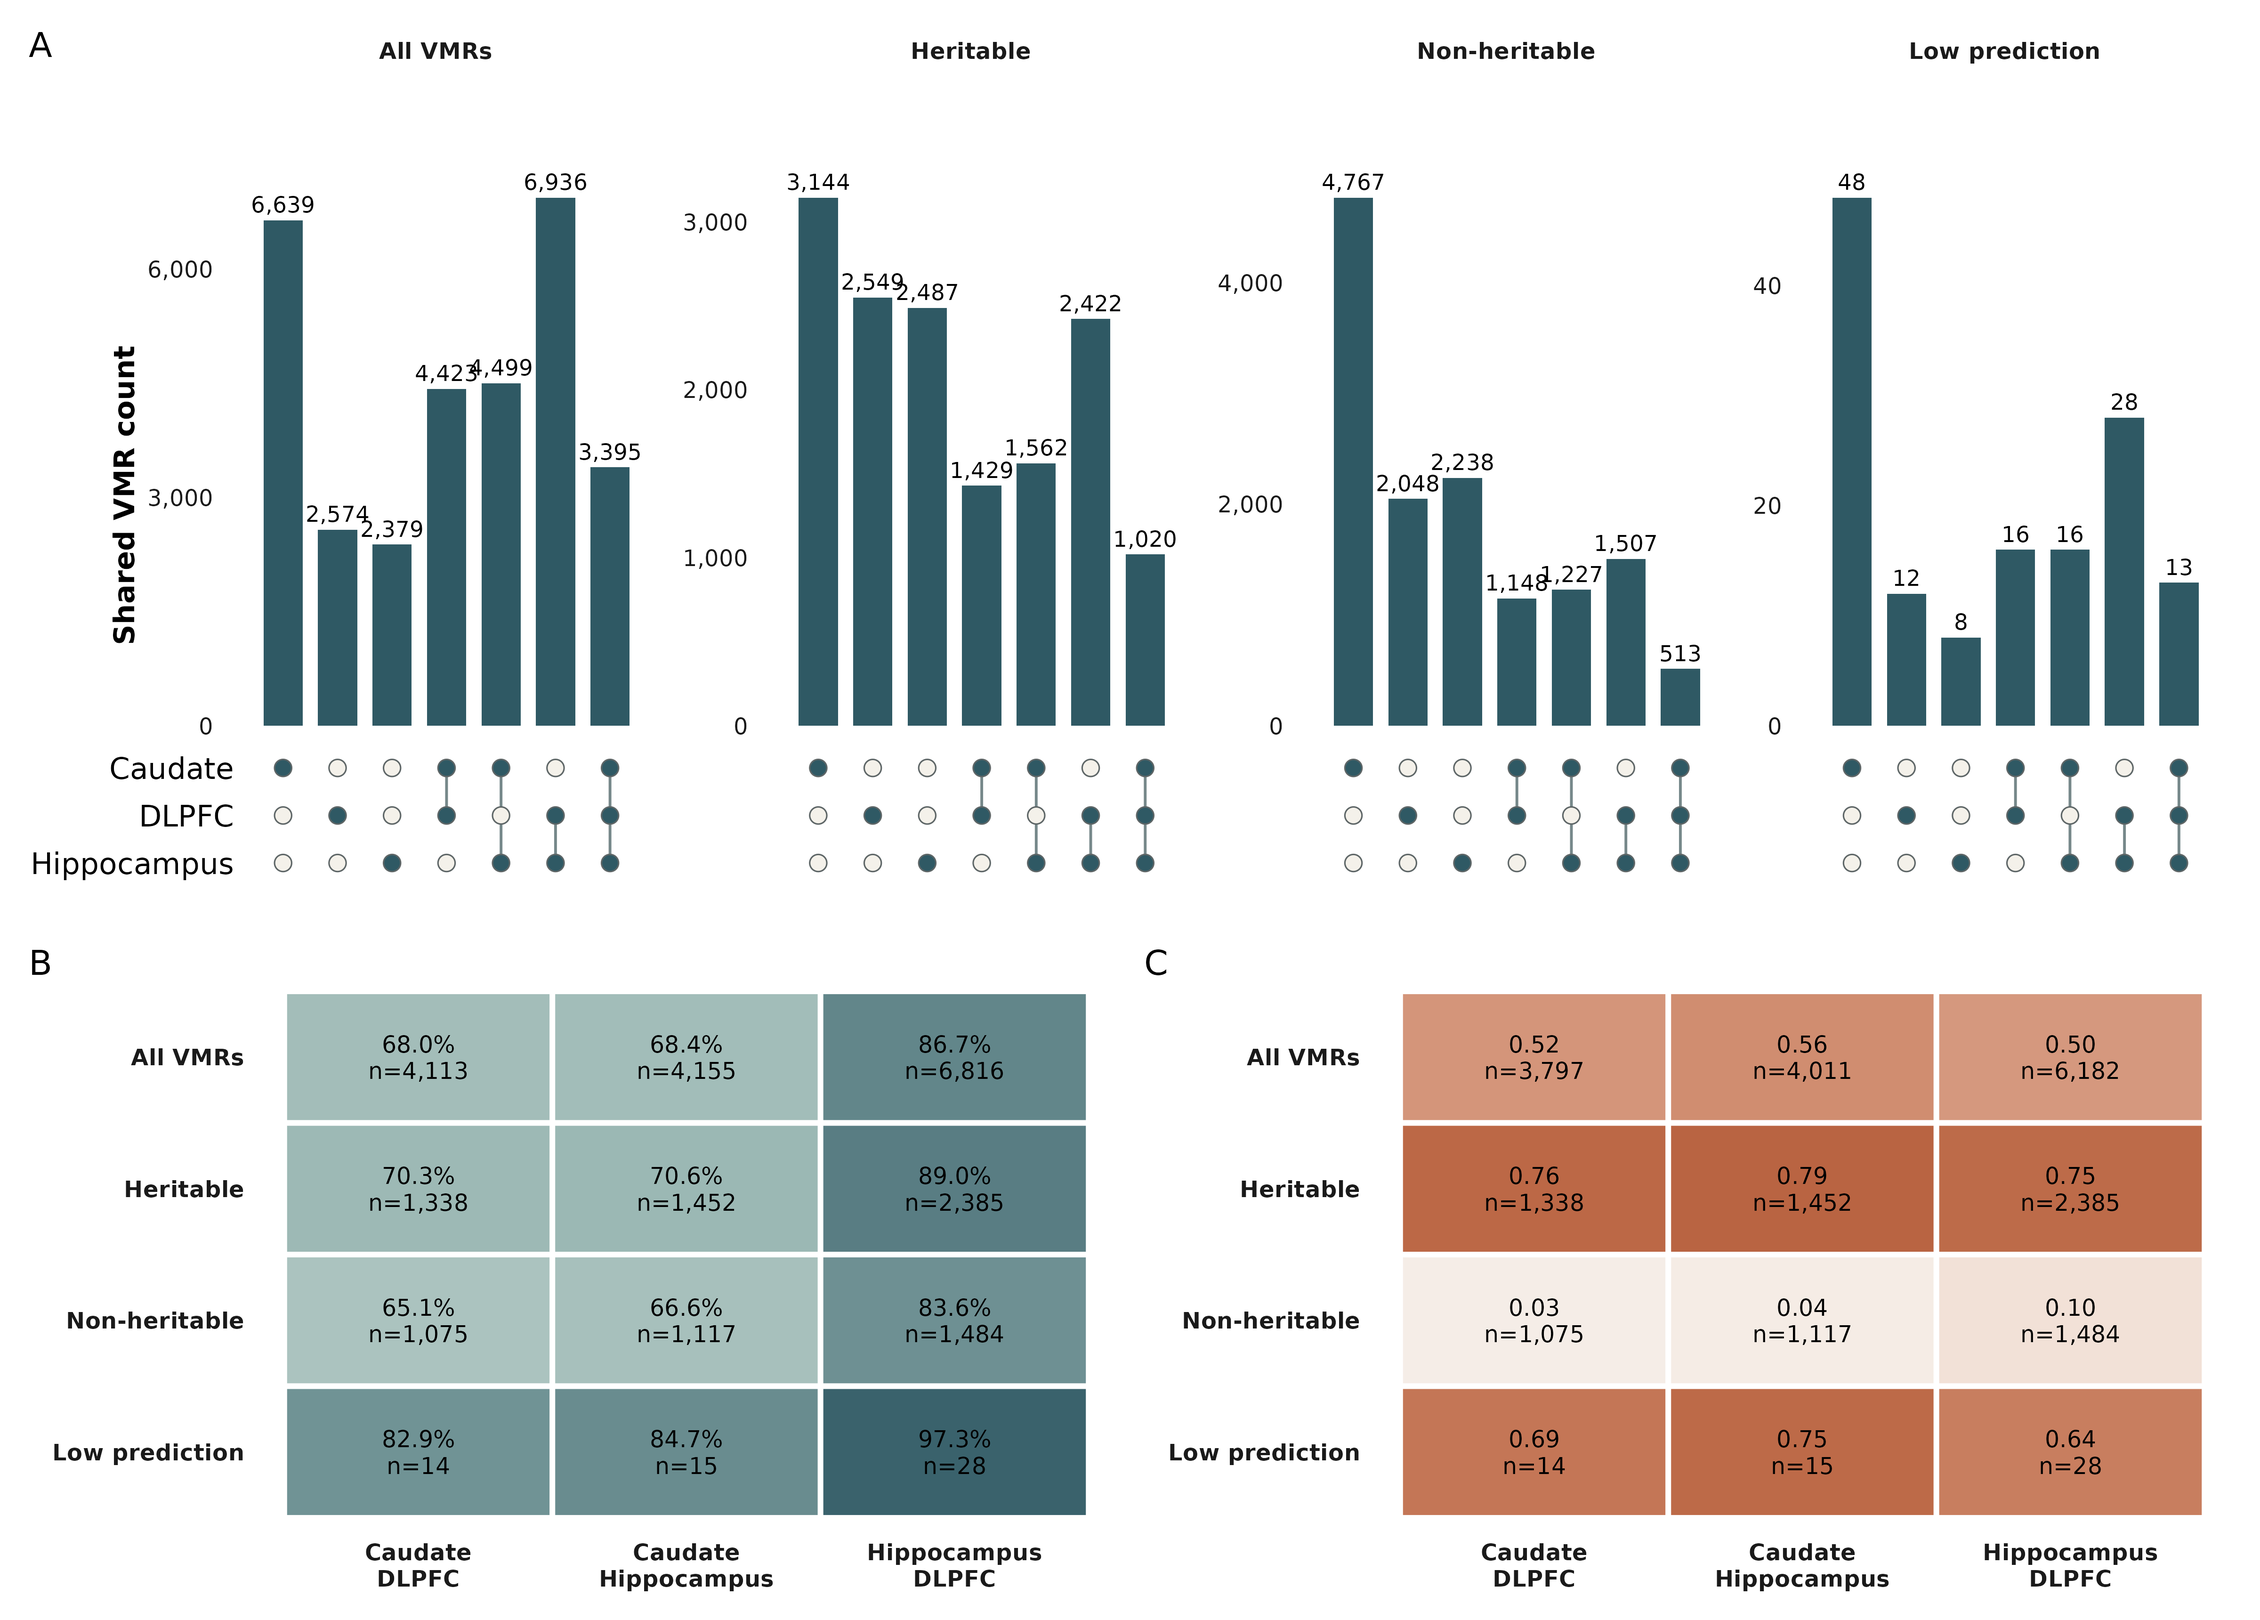
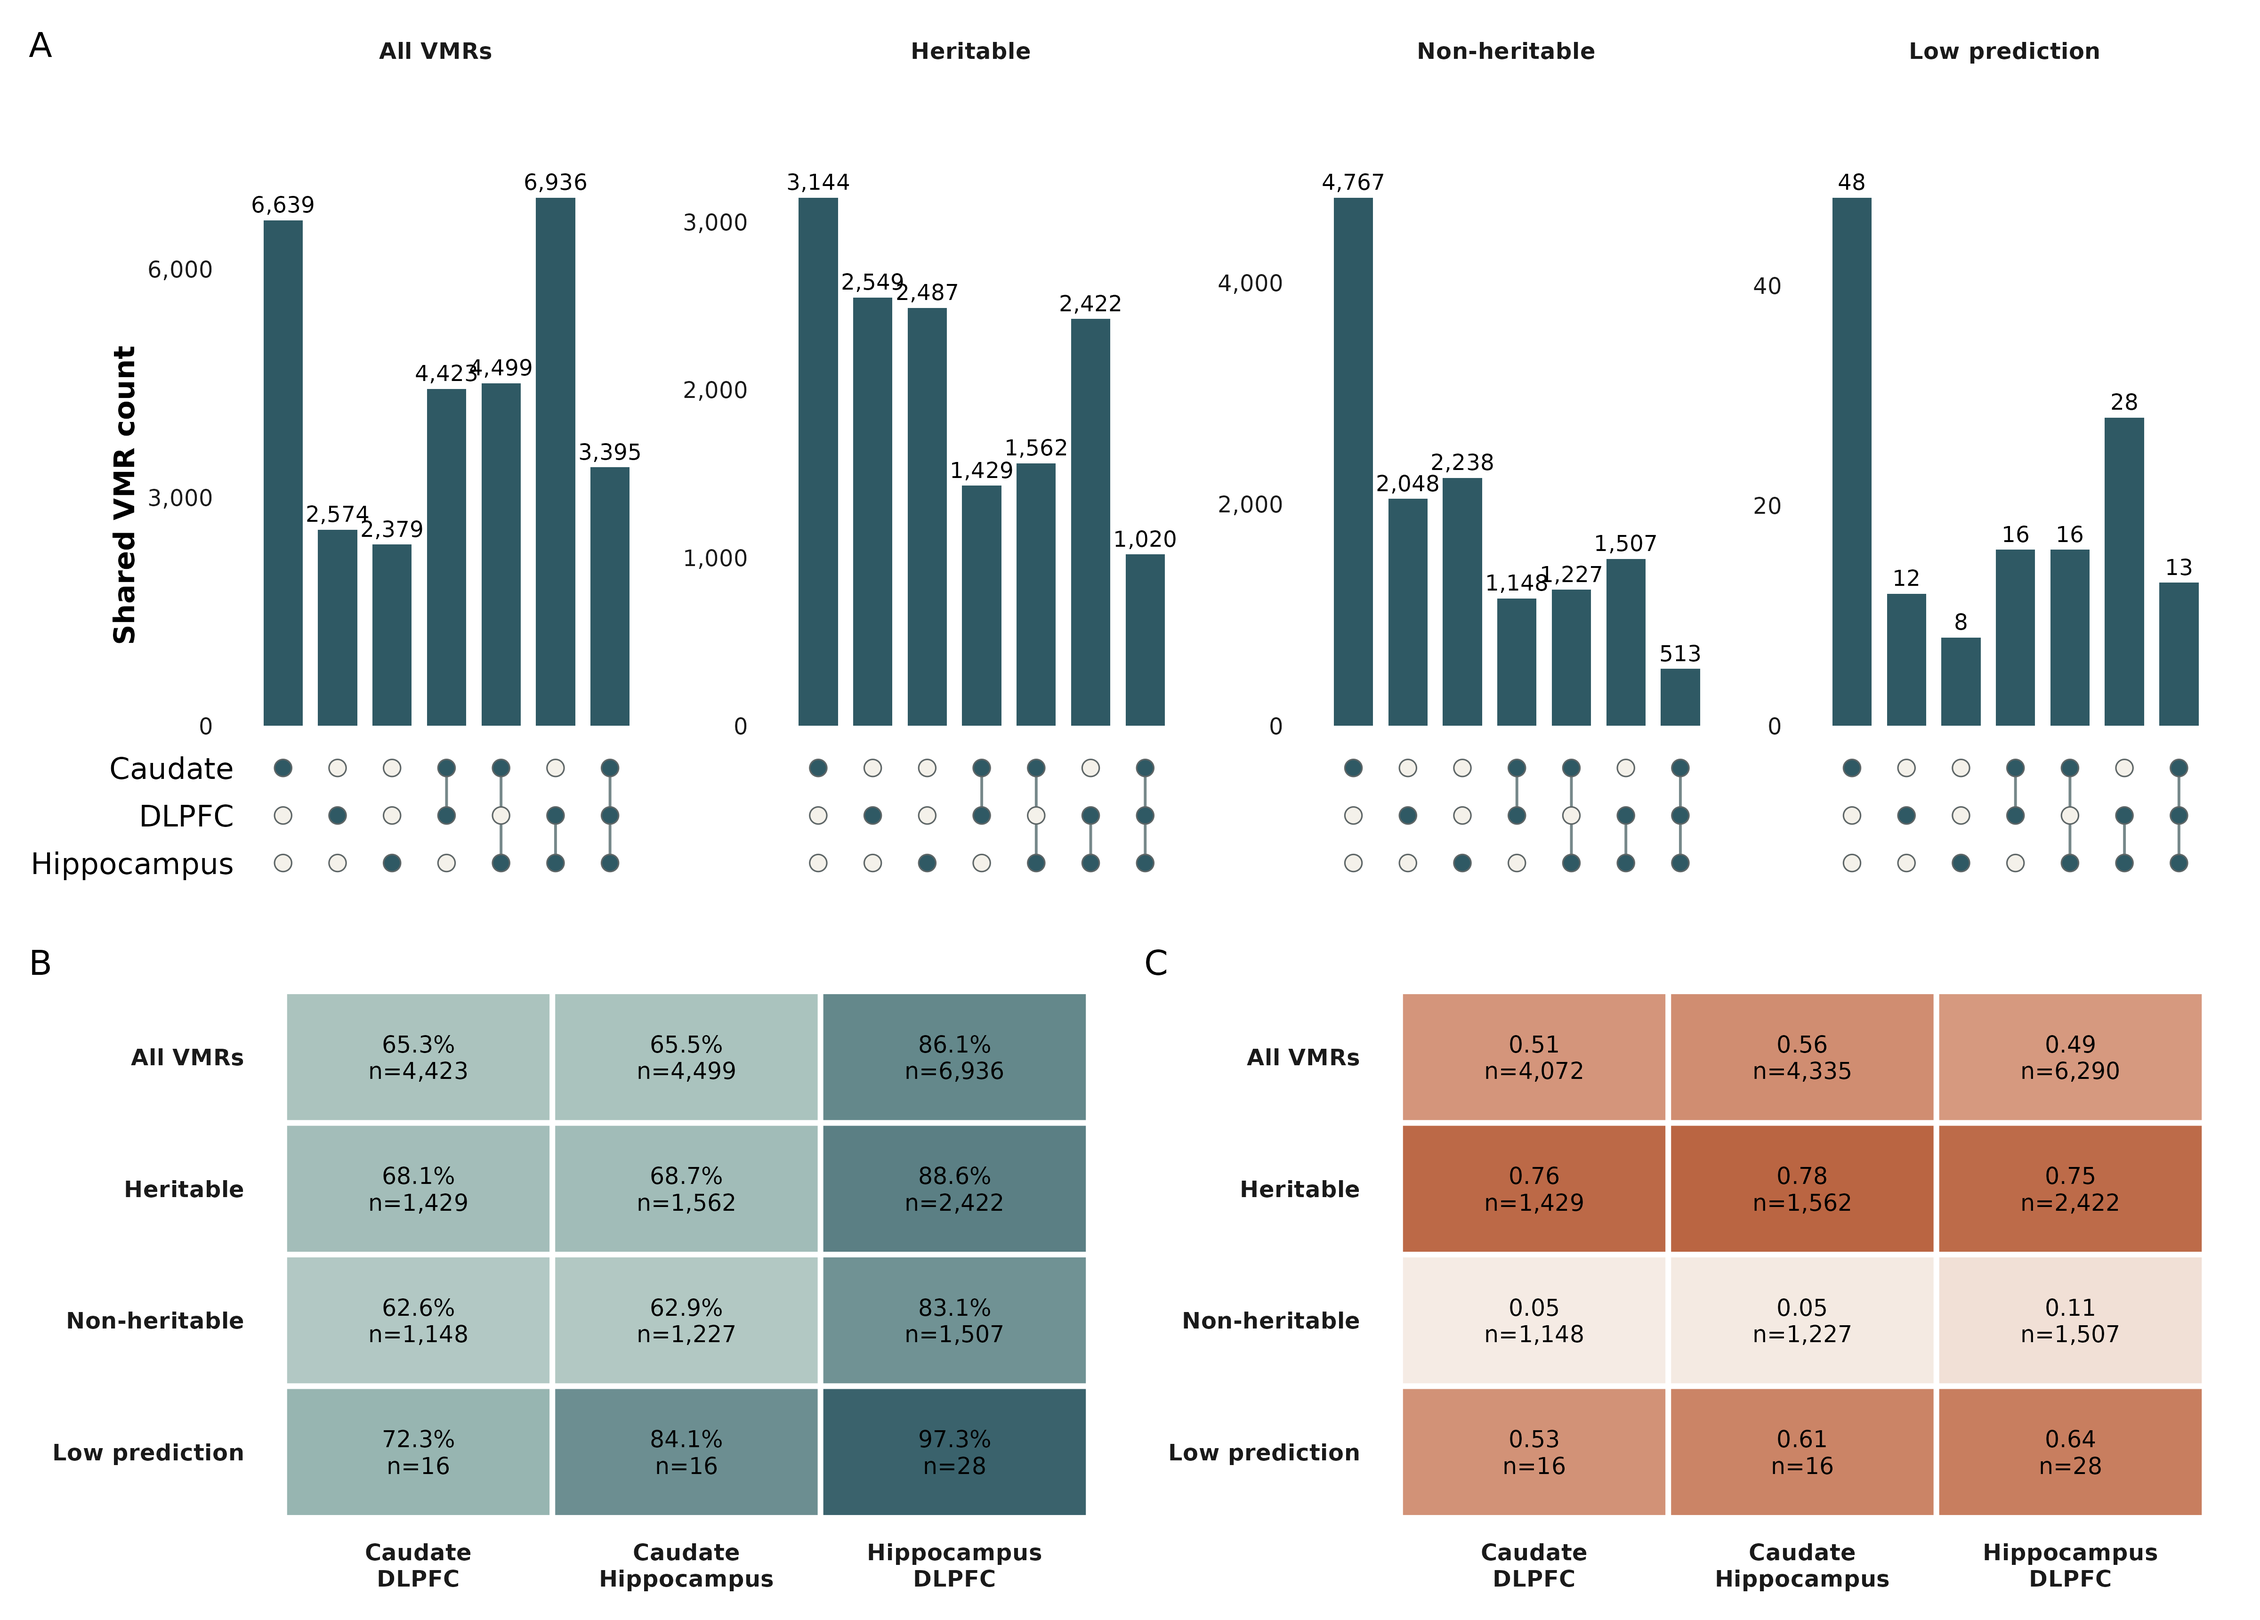
Remove reciprocal overlap threshold; add updated plots

Changed region(s): [[0.5938, 0.8398, 0.875, 0.9331], [0.125, 0.8398, 0.25, 0.9331], [0.2812, 0.7154, 0.3125, 0.7465]]

diff --git a/heritability/elastic_net_model/BA_only/tissue_comparison/upset_plot/_h/05.summarize_manuscript_overlap.py b/heritability/elastic_net_model/BA_only/tissue_comparison/upset_plot/_h/05.summarize_manuscript_overlap.py
@@ -17,7 +17,6 @@ except ImportError:  # pragma: no cover - optional at runtime
     session_info = None
 
 
-RECIPROCAL_THRESHOLD = 25.0
 OVERLAP_FLAG = "F_0.25"
 REGIONS = ("caudate", "dlpfc", "hippocampus")
 
@@ -197,7 +196,6 @@ def load_pairwise_overlaps(percent_overlap_dir: Path, tissue1: str, tissue2: str
     overlap["interval_id_a"] = interval_id(overlap, "chromA", "startA", "endA")
     overlap["interval_id_b"] = interval_id(overlap, "chromB", "startB", "endB")
     overlap = overlap.drop_duplicates(subset=["interval_id_a", "interval_id_b"]).copy()
-    overlap = overlap.loc[overlap["reciprocal"] >= RECIPROCAL_THRESHOLD].copy()
     return overlap
 
 
@@ -210,7 +208,6 @@ def summarize_reciprocal_overlap(percent_overlap_dir: Path) -> pd.DataFrame:
             rows.append(
                 {
                     "flag": OVERLAP_FLAG,
-                    "reciprocal_threshold": RECIPROCAL_THRESHOLD,
                     "h2_category": h2_category,
                     "h2_label": CATEGORY_LABELS[h2_category],
                     "class_order": CATEGORY_ORDER.index(h2_category) + 1,
@@ -274,7 +271,6 @@ def summarize_h2_concordance(percent_overlap_dir: Path, region_tables: dict[str,
             rows.append(
                 {
                     "flag": OVERLAP_FLAG,
-                    "reciprocal_threshold": RECIPROCAL_THRESHOLD,
                     "h2_category": h2_category,
                     "h2_label": CATEGORY_LABELS[h2_category],
                     "class_order": CATEGORY_ORDER.index(h2_category) + 1,
